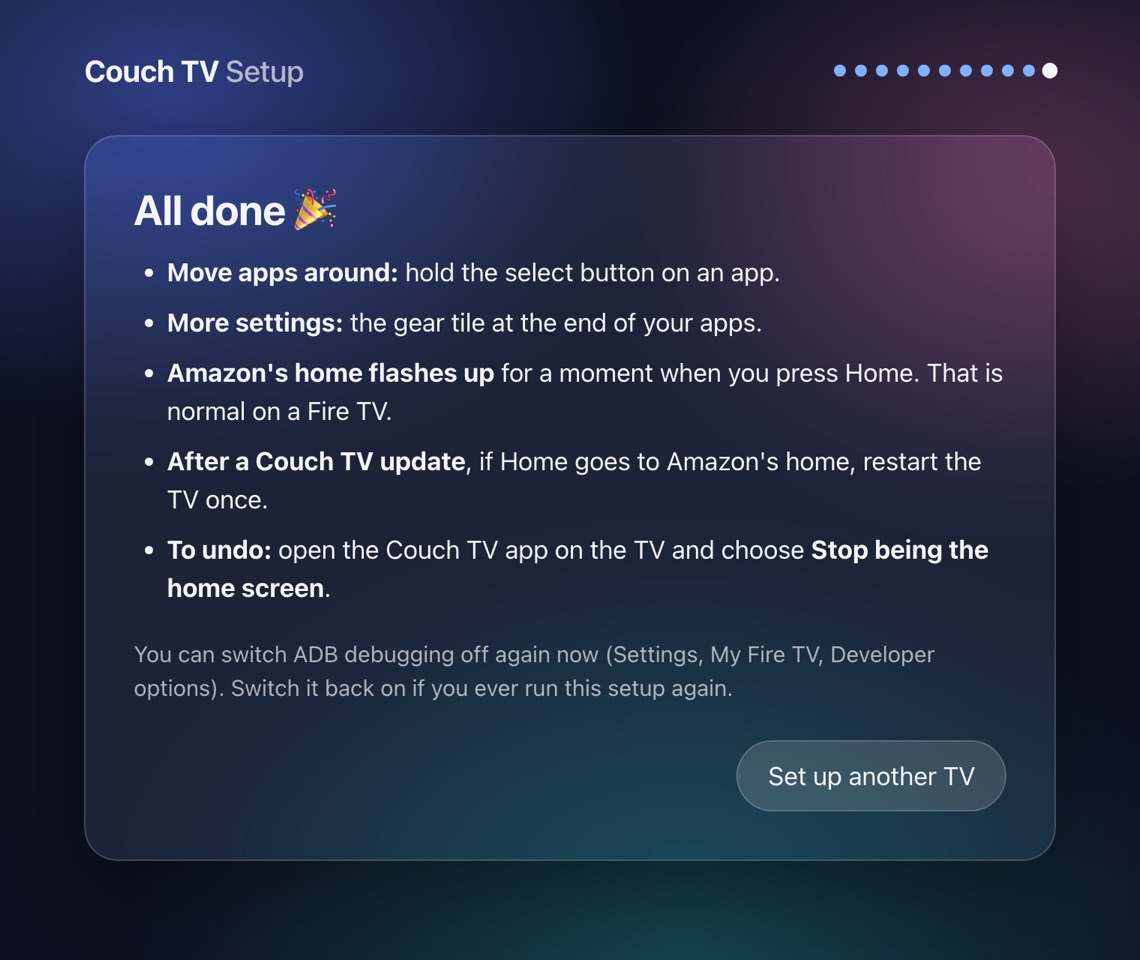
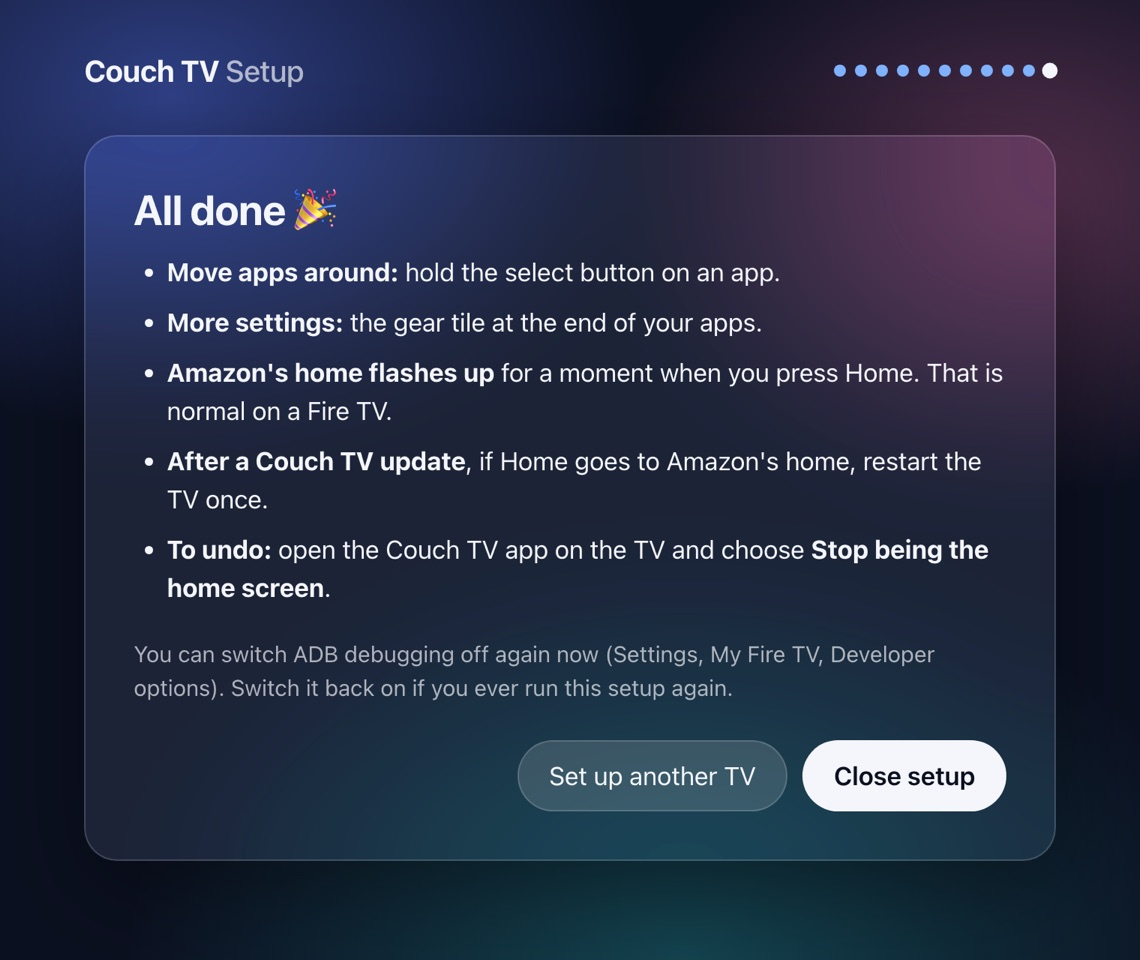
feat: Close setup button that stops the app right away

Changed region(s): [[0.4298, 0.75, 0.8904, 0.8438]]

diff --git a/couchtv_setup/web/index.html b/couchtv_setup/web/index.html
@@ -162,7 +162,17 @@
       <li><b>To undo:</b> open the Couch TV app on the TV and choose <b>Stop being the home screen</b>.</li>
     </ul>
     <p class="small">You can switch ADB debugging off again now (Settings, My Fire TV, Developer options). Switch it back on if you ever run this setup again.</p>
-    <div class="actions"><button data-go="welcome">Set up another TV</button></div>
+    <div class="actions">
+      <button data-go="welcome">Set up another TV</button>
+      <button class="primary" id="quit-go">Close setup</button>
+    </div>
+  </section>
+
+  <!-- shown after Close setup -->
+  <section data-step="closed">
+    <h1>Setup is closed</h1>
+    <p class="lead">Couch TV Setup has stopped on this Mac. You can close this tab.</p>
+    <p class="small">To run it again, open the Couch TV Setup app.</p>
   </section>
 
   <p id="error" class="error" hidden></p>

diff --git a/couchtv_setup/web/app.js b/couchtv_setup/web/app.js
@@ -329,8 +329,19 @@
     }, showError);
   };
 
+  // ---- close ----
+  var closed = false;
+  $("quit-go").onclick = function () {
+    $("quit-go").disabled = true;
+    call("/api/quit", {}).then(function () {
+      closed = true;
+      go("closed");
+      document.getElementById("dots").style.visibility = "hidden";
+    }, function (e) { $("quit-go").disabled = false; showError(e); });
+  };
+
   // Tells the Mac side this page is still open (it stops by itself a few minutes after it closes).
-  setInterval(function () { call("/api/ping").catch(function () {}); }, 20000);
+  setInterval(function () { if (!closed) call("/api/ping").catch(function () {}); }, 20000);
   call("/api/ping").catch(function () {});
 
   // #adb, #find, #allow or #done open that step straight away (handy for the README's pictures).

diff --git a/couchtv_setup/server.py b/couchtv_setup/server.py
@@ -30,6 +30,7 @@ class State:
         self.apk = None
         self.lock = threading.Lock()
         self.job = {"running": False}
+        self.httpd = None
 
 
 S = State()
@@ -77,6 +78,12 @@ def need_tv():
 def api(method, path, body):
     SEEN["last"] = time.time()
     if path == "/api/ping":
+        return {"ok": True}
+    if path == "/api/quit":
+        # The "Close setup" button. Answers first, then stops the server a moment later.
+        if S.job.get("running"):
+            raise TvError("Still busy with the last step. Wait for it to finish, then close.", "busy")
+        threading.Timer(0.5, S.httpd.shutdown).start()
         return {"ok": True}
     if path == "/api/job":
         return S.job
@@ -194,6 +201,7 @@ class Handler(BaseHTTPRequestHandler):
 def main():
     port = int(os.environ.get("COUCHTV_SETUP_PORT") or 0)
     httpd = ThreadingHTTPServer(("127.0.0.1", port), Handler)
+    S.httpd = httpd
     url = f"http://127.0.0.1:{httpd.server_address[1]}/"
     print(f"Couch TV Setup is open in your browser: {url}")
     print("Keep this window open until you are done. Close it (or press Ctrl+C) to stop.")

diff --git a/README.md b/README.md
@@ -41,7 +41,7 @@ app: right-click it, choose **Open**, then **Open** again (or System Settings, P
 a private Python folder for itself, then opens the setup in your browser.
 
 When macOS asks to **find devices on your local network**, press **Allow**: that is how it reaches
-the TV. The app has no window of its own; it stops by itself a few minutes after you close the page.
+the TV. The app has no window of its own. When you are done, press **Close setup** on the last screen to stop it straight away; if you just close the tab, it stops by itself about 3 minutes later.
 
 ## What it keeps on the Mac
 
